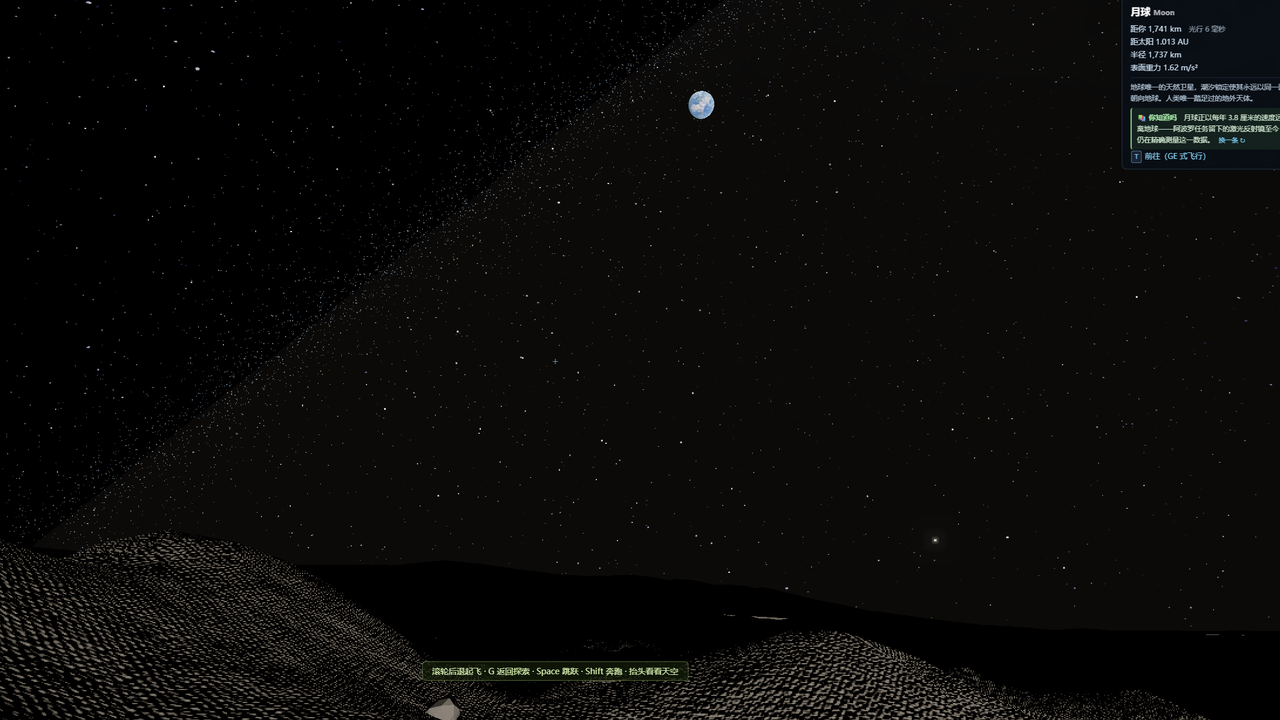
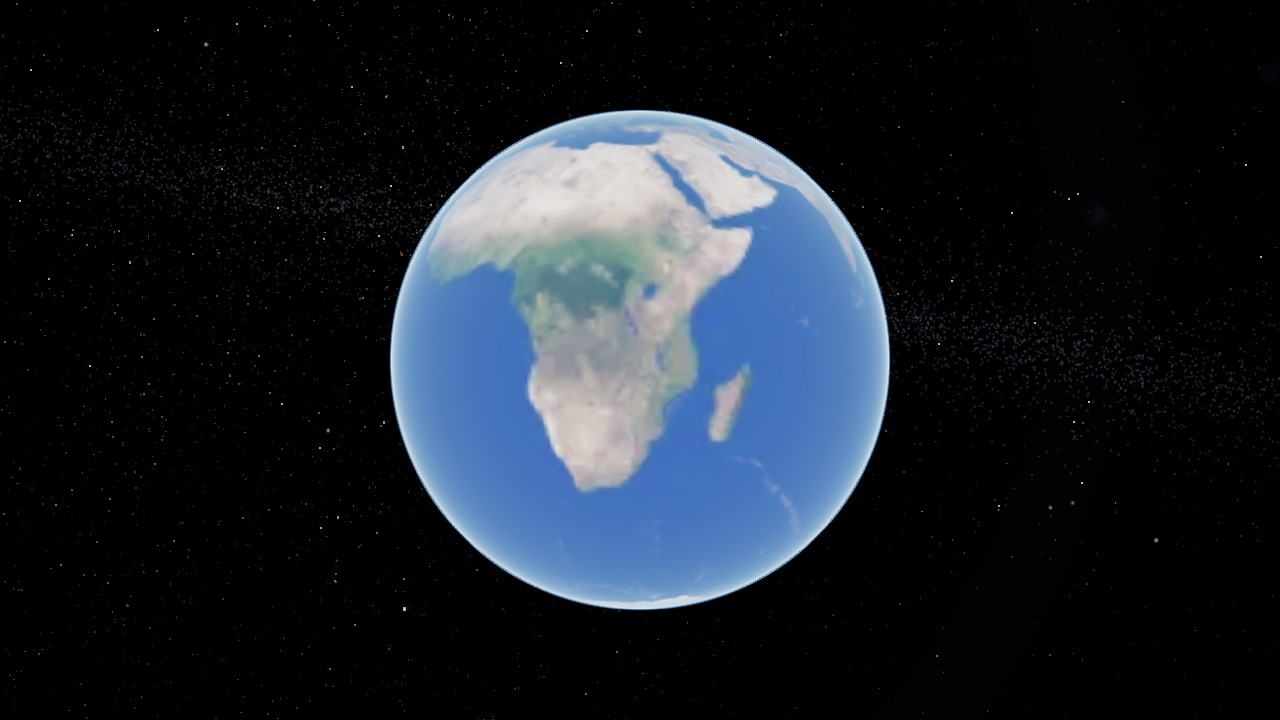
Replace preview with English-only scene

diff --git a/README.md b/README.md
@@ -18,7 +18,7 @@ Explore planetary orbits, descend to the surface, and travel outward to the edge
 </div>
 
 <p align="center">
-  <img src="./public/preview.png" alt="Planets Motion: a real-scale view across a planetary horizon and star-filled space" width="100%">
+  <img src="./public/preview.png" alt="Planets Motion: a detailed view of Earth against a star-filled background" width="100%">
 </p>
 
 <p align="center"><sub>One browser. A whole Solar System to explore.</sub></p>
